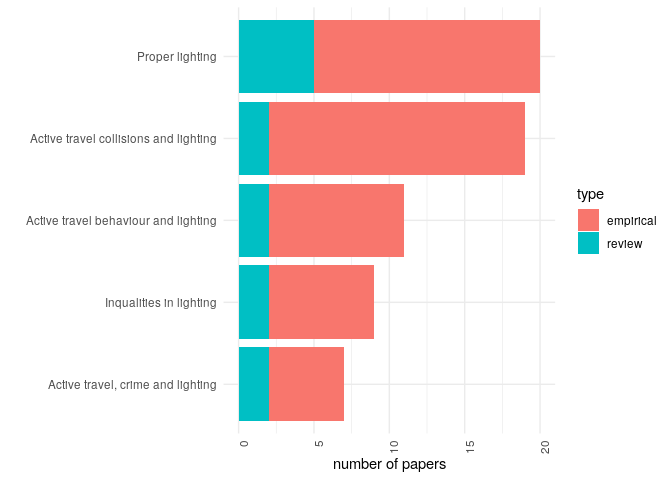
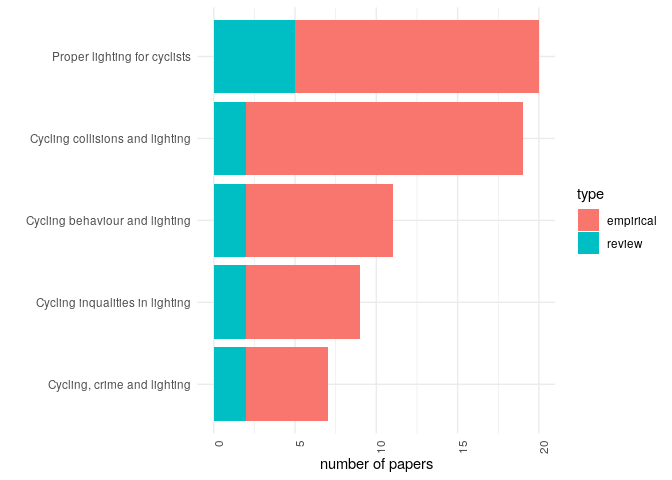
update

diff --git a/README.md b/README.md
@@ -35,9 +35,11 @@ Darkness is one of the environmental factors that most affect cycling.
 Previous academic literature reviews have touched on elements of the
 relationship between cycling and lighting.
 
-<!-- @cozens_critical_2003 explored papers on the association between street lighting and crime or fear of crime; @fotios_lighting_2017 reviewed suggested interventions to enable cycling lighting to contribute to the safety of cyclists in the UK; @boyce_benefits_2019 reviewed research into the benefits of light at night for perceptions of safety; and several reviews looked at studies on the appropriate lighting for pedestrians' reassurance [@fotios_road_2015; @fotios_s_road_2010; @fotios_specifying_2016]. -->
-<!-- However, to the best of our knowledge, no academic paper has reviewed the international literature available on the intersection between both terms, active travel and road lighting. -->
-<!-- A systematic literature review of pedestrians’ response to outdoor lighting. -->
+S. Fotios and Castleton (2017) reviewed suggested interventions to
+enable cycling lighting to contribute to the safety of cyclists in the
+UK. However, to the best of our knowledge, no academic paper has
+reviewed the international literature available on the intersection
+between both terms, cycling and road lighting.
 
 This paper aims to fill this gap in the literature, reviewing published
 research specifically focussed at the intersection between cycling and
@@ -79,12 +81,12 @@ in the SCOPUS electronic databased (on 15 November 2022) for studies
 investigating the relationship between cycling and road lighting. The
 query string used for the search was as follows:
 
-*bicycl\* OR bik\* OR cycling OR cyclist\* OR “cycle hire”) AND (“city
+*(bicycl\* OR bik\* OR cycling OR cyclist\* OR “cycle hire”) AND (“city
 light\*” OR “public light\*” OR “road light\*” OR “street light\*” or
 “city illumination” OR “public illumination” OR “road illumination” OR
 “street illumination” OR “city lamp\*” OR “public lamp\*” OR “road
 lamp\*” OR “street lamp\*” OR “lamp post\*” OR “light post\*” OR “light
-pole\*”*
+pole\*)”*
 
 This search, based on the content of the title, abstract, and keywords,
 resulted in 262 records. After screening abstracts and full text, TBC
@@ -98,30 +100,12 @@ In the second stage, we checked the references from the studies selected
 TBC additional papers were selected. In total, TBC were reviewed. A flow
 chart of included studies is shown in Figure 1.
 
-<!-- Papers not accessible:  -->
-
-<!-- - A controversial history of pedestrian space lighting in Moscow -->
-
-<!-- - Safe on the move: The importance of the built environment (Book Chapter)  -->
-
-<!-- - Lighting criteria for road lighting: A review  -->
-
-<!-- - Changing Social and Built Environments to Promote Physical Activity: Recommendations from Low Income, Urban Women -->
-
-<!-- - Macro-spatial approach for evaluating the impact of socio-economics, land use, built environment, and road facility on pedestrian safety -->
-
-<!-- - Is white light the right light? -->
-
 <img src="flow-chart.png" alt="Review flow chart" width="50%" style="display: block; margin: auto;" />
 
 <!-- We need to define scope of the review - we are looking at papers that: Investigate the effects of light and lighting in some way, including road lighting or ambient light, but excluding other types of lighting such as cycle-mounted lighting Relate to cycling rates or cycling propensity, i.e. not related to cyclist safety? -->
 <!-- Other parameters for scope? -->
 <!-- ## Data extraction -->
-<!-- From the included studies, we extracted information regarding: location of study, methodology, active travel uptake and lighting measurements, mode, sign of association, and authors and year. -->
-
-|                                                                   |
-|-------------------------------------------------------------------|
-| Carry on with the update with only ‘cycling’ from here to the end |
+<!-- From the included studies, we extracted information regarding: location of study, methodology, cycling uptake and lighting measurements, mode, sign of association, and authors and year. -->
 
 # Results
 
@@ -130,16 +114,16 @@ disciplines, including transportation, public health, road safety,
 criminology, social inequalities, and engineering and technology. Five
 main themes were identified:
 
-1.  Active travel behaviour and lighting
+1.  Cycling behaviour and lighting
 
-2.  Active travel collisions and lighting
+2.  Cycling collisions and lighting
 
-3.  Active travel, crime and lighting
+3.  Cycling, crime and lighting
 
-4.  Inequalities in lighting
+4.  Cycling inequalities in lighting
 
-5.  Proper lighting (i.e. optimal use of lighting to enhance reassurance
-    while respecting the environment)
+5.  Proper lighting for cyclists (i.e. optimal use of lighting to
+    enhance cyclists reassurance while respecting the environment)
 
 Figure 1 shows the number of papers reviewed for each of the identified
 themes (some of the papers deal with more than one).
@@ -150,9 +134,8 @@ Three quarters of the studies were empirical studies and one quarter
 were reviews. Most of the empirical studies were quantitative, five of
 them qualitative, and one of them mixed methods.
 
-## Active travel behaviour and lighting
+## Cycling behaviour and lighting
 
-<!-- Which structure should i follow? By mode of transport? Walking, cyclng, wheeling? -->
 <!-- I could also divide the section on quantitative studies and objective and subjective. -->
 
 Previous research has found a clear association between active travel or
@@ -211,7 +194,7 @@ illuminance levels, tend to make people feel safer and better”.
 
 <table class="table" style="margin-left: auto; margin-right: auto;">
 <caption>
-Table 1: Overview of papers on active travel and lighting
+Table 1: Overview of papers on cycling and lighting
 </caption>
 <thead>
 <tr>
@@ -397,11 +380,11 @@ empirical
 </tbody>
 </table>
 
-## Active travel collisions and lighting
+## Cycling collisions and lighting
 
-One of the main reasons that active travel decreases in the dark is
-because active travellers need to see obstacles on the road and be seen
-by other road users.
+One of the main reasons that cycling decreases in the dark is because
+cyclists need to see obstacles on the road and be seen by other road
+users.
 
 The probability of suffering a traffic collision in the dark among
 pedestrians and cyclists is much greater than among other road users
@@ -498,7 +481,7 @@ intersections” (Siddiqui, Chu, and Guttenplan 2006).
 
 <table class="table" style="margin-left: auto; margin-right: auto;">
 <caption>
-Table 2: Overview of papers on active travel collisions and lighting
+Table 2: Overview of papers on cycling collisions and lighting
 </caption>
 <thead>
 <tr>
@@ -803,7 +786,7 @@ empirical
 </tbody>
 </table>
 
-## Active travel, crime, and lighting
+## Cycling, crime, and lighting
 
 Another fundamental factor that explains less walking and cycling during
 night-time is fear of crime.
@@ -830,7 +813,7 @@ brightness and environmental trust” (Johansson, Rosén, and Küller 2011).
 
 <table class="table" style="margin-left: auto; margin-right: auto;">
 <caption>
-Table 3: Overview of papers on active travel, crime, and lighting
+Table 3: Overview of papers on cycling, crime, and lighting
 </caption>
 <thead>
 <tr>
@@ -956,13 +939,10 @@ review
 </tbody>
 </table>
 
-## Inequalities in lighting
+## Cycling inequalities in lighting
 
 Fear of danger of injury from traffic, falls, or violence seems to
 affect groups differently.
-
-<!-- **fears from traffic** -->
-<!-- **fears from crime** -->
 
 “the study also found that age and gender influenced the level of
 anxiety among pedestrians” (Park and Garcia 2020).
@@ -1168,15 +1148,12 @@ review
 </tbody>
 </table>
 
-## Proper lighting
+## Proper lighting for cyclists
 
 A large number of papers found in our search focused on investigating
 which type of road lighting is most appropriate to improve pedestrians
 and cyclists reassurances. I.e. How lighting attributes such as
-illuminance, light temperature, uniformity and glare, affect active
-travel.
-
-<!-- "R"eassurance describes the confidence a pedestrian might gain from road lighting (and other factors) to walk along a footpath or road after dark, and is intended to describe both perceived safety and fear of crime". -->
+illuminance, light temperature, uniformity and glare, affect cycling.
 
 “A satisfactory level of FoS reaches at the illumination levels of 5–17
 lx. People feel safer if nighttime light is warm and uniform.
@@ -1235,9 +1212,6 @@ distance of 15 m” (B. Yang and Fotios 2015).
 illuminance of 10 lux, of high S/P ratio, and aimed toward the
 pedestrian and natural elements of the environment, will enhance
 reassurance” (S. Fotios, Unwin, and Farrall 2015).
-
-<!-- There are more empirical papers very technical and most related to regulations which may be over the scope of this review (e.g. @fotios_proposed_2012; @fotios_using_2013; @fotios_using_2015).  -->
-<!-- The same happens with a couple of reviews on this topic [@fotios_light_2005 and @fotios_s_road_2010]. Should we keep the reviews and remove emprical papers? Or remove them all? -->
 
 “Both experiments, one with stationary and one with walking
 participants, demonstrated that people prefer having light in their own
@@ -1584,32 +1558,32 @@ empirical
 
 # Discussion
 
-The scientific literature on the intersections of active travel and
-lighting is spread across several disciplines such as transportation,
-public health, road safety, criminology, studies of social inequalities,
-and engineering and technology.
+The scientific literature on the intersections of cycling and lighting
+is spread across several disciplines such as transportation, public
+health, road safety, criminology, studies of social inequalities, and
+engineering and technology.
 
-**To what extent does darkness influence active travel behaviour?**
+**To what extent does darkness influence cycling behaviour?**
 
 The positive results obtained in studies looking at the association
-between active travel uptake and street lighting show the importance of
-light conditions as a policy measure to encourage active travel in the
-dark. Lighting conditions improvements not only may increase active
-trips in general, but also the inclusivity of these modes, since, as has
-been demonstrated, street lighting will benefit more certain sectors of
+between cycling uptake and street lighting show the importance of light
+conditions as a policy measure to encourage cycling in the dark.
+Lighting conditions improvements not only may increase cycling trips in
+general, but also the inclusivity on cycling, since, as has been
+demonstrated, street lighting will benefit more certain sectors of
 society such as women, children, the elderly, and certain disadvantaged
-groups
+groups.
 
 **To what degree does darkness increase the risk of road collision among
-active travellers?**
+cyclists?**
 
 **To what extent does darkness increase the risk of being a victim of
-crime among active travellers?**
+crime among cyclists?**
 
-**Is the association between active travel and darkness the same between
+**Is the association between cycling and darkness the same between
 different groups?**
 
-**What type of road lighting is the most suitable for active travel to
+**What type of road lighting is the most suitable for cycling to
 increase and be safer?**
 
 What do we know so far on the topic? What are the research gaps? What
@@ -1632,7 +1606,7 @@ their routes? Do they change their mode of transport?
 # Conclusions
 
 <!-- Interpretation of the material. -->
-<!-- The review presented above highlights the need for more empirical work in the area of active travel uptake and road lighting. -->
+<!-- The review presented above highlights the need for more empirical work in the area of cycling uptake and road lighting. -->
 <!-- We plan to undertake some of this work over the coming months in the SATURN (Supporting Active Travel Using Road lighting at Night) project, which has been funded by the UK Research and Innovation body. -->
 <!-- During the project we plan to measure change in cycling levels, primarily through cyclists counts, and cycling safety due to darkness as inferred from models of cycling levels and high resolution casualty over multi year timescales and in a number of different locations. -->
 <!-- Comparing resulting estimates of change in cycling and safety levels will help assess the impact of lighting in those locations, but there is much else to do in this field beyond what is possible in a 24 month research project. -->
